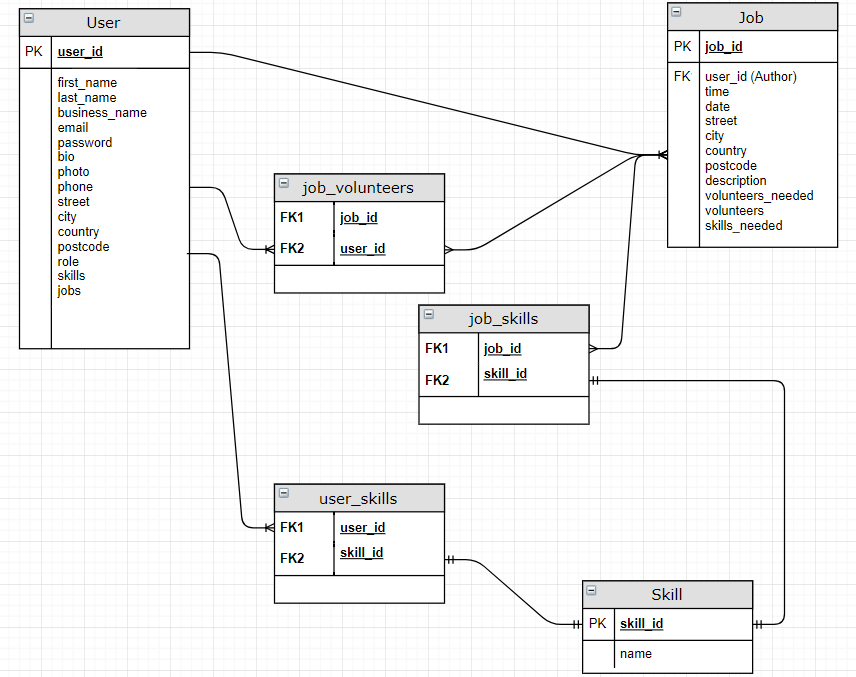
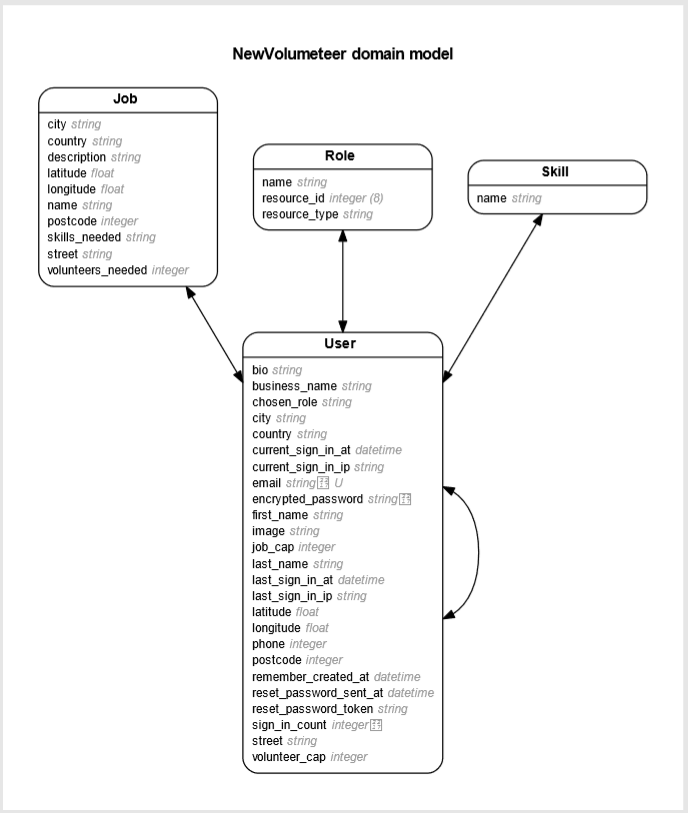
README.md updated, created erd using railserd

diff --git a/README.md b/README.md
@@ -1,7 +1,24 @@
+## DEPLOYMENT LINK  
+  http://volumeteer.herokuapp.com/
+# TECH SUMMARY
+
+* Ruby version   
+  * ruby 2.3.3
+* Rails version   
+  * rails 5.1.6
+* Key Gems
+  * Devise - User Authentication
+  * Rolify - User Authorisation
+  * Carrierwave - Image Upload
+  * Cloudinary - Image Compression & Storage
+  * Geocoder - Help with Google Map API
+  * Ransack - Easy Searching
+  * Stripe - User Payment
+  * Rubocop - Code Review
+  * Rails erd - ERD Generation  
+
 # INSTALLATION
 
-* Ruby version  
-~ruby 2.3.3p222
 
 * Configuration  
   You will need to create .env file found in the root folder as they have been excluded in .gitignore for security.  
@@ -20,7 +37,7 @@ STRIPE_SECRET_KEY =
 STRIPE_PUBLISHABLE_KEY =
 MAPS_KEY =
 POSTGRES_USER =
-POSTGRES_PASSWORD = 
+POSTGRES_PASSWORD =
 ```
 # Design Document
 ## Design Contents
@@ -37,7 +54,8 @@ POSTGRES_PASSWORD =
   * Mobile
 * ERD
 * Design Decisions
-* Agile Workflow Timetable
+* Agile Workflow Timetable  
+* Code Review
 
 
 ## PROBLEM DEFINITION
@@ -64,6 +82,7 @@ POSTGRES_PASSWORD =
 
 ## USER STORIES
   User stories were created using Trello. The original stories comprise of MVP features. Aswell as one column of non-mvp features.
+  https://trello.com/b/guzJHlrp/agile-workflow
 
 ![alt text][userStories]
 
@@ -116,3 +135,15 @@ POSTGRES_PASSWORD =
    ![alt text][agile_pic]
 
    [agile_pic]:docs/images/agileFlow.PNG "Agile Timetable"
+
+## CODE REVIEW  
+  I requested for classmates to review my code using Slack.
+  ![alt text][code_review_pic]
+
+  [code_review_pic]:docs/images/codeReview.png "Code Review"
+
+  I also used Rubocop to help with code styling, to try and test it's true power I avoided using any code editor plug-ins to prettify code.
+
+  ![alt text][rubocop_pic]
+
+  [rubocop_pic]:docs/images/rubocop.png "Rubocop"
